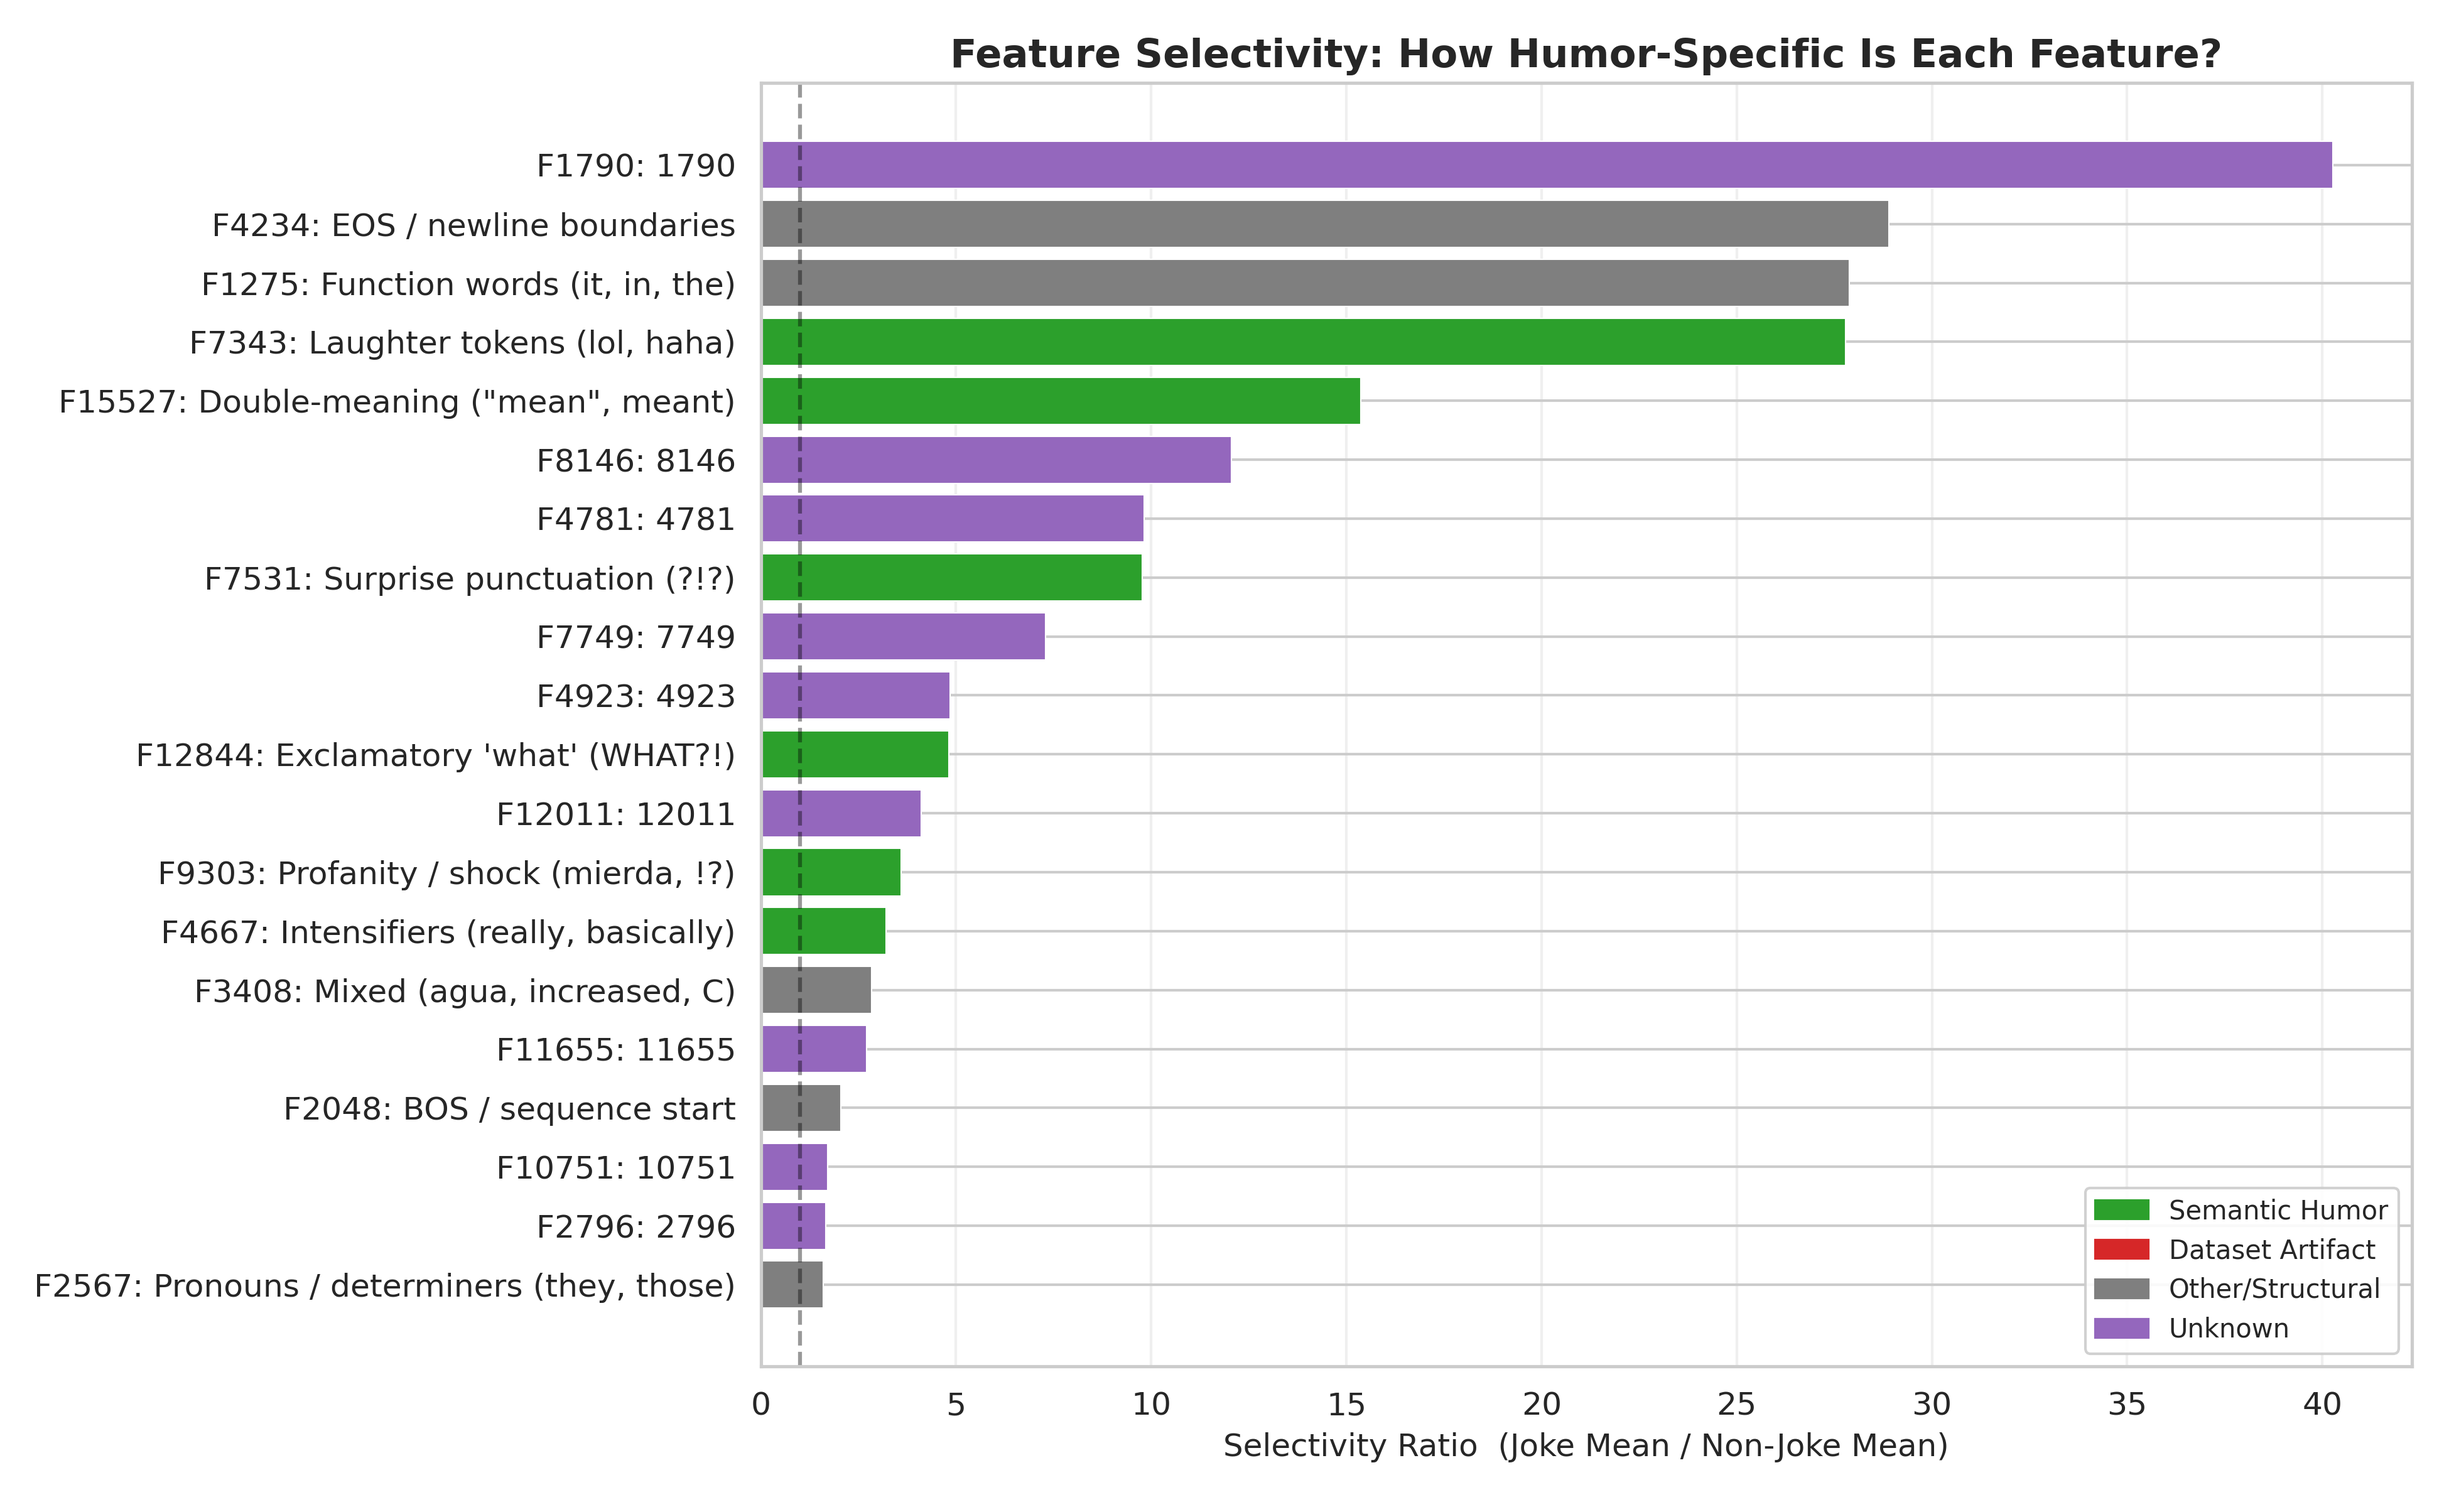
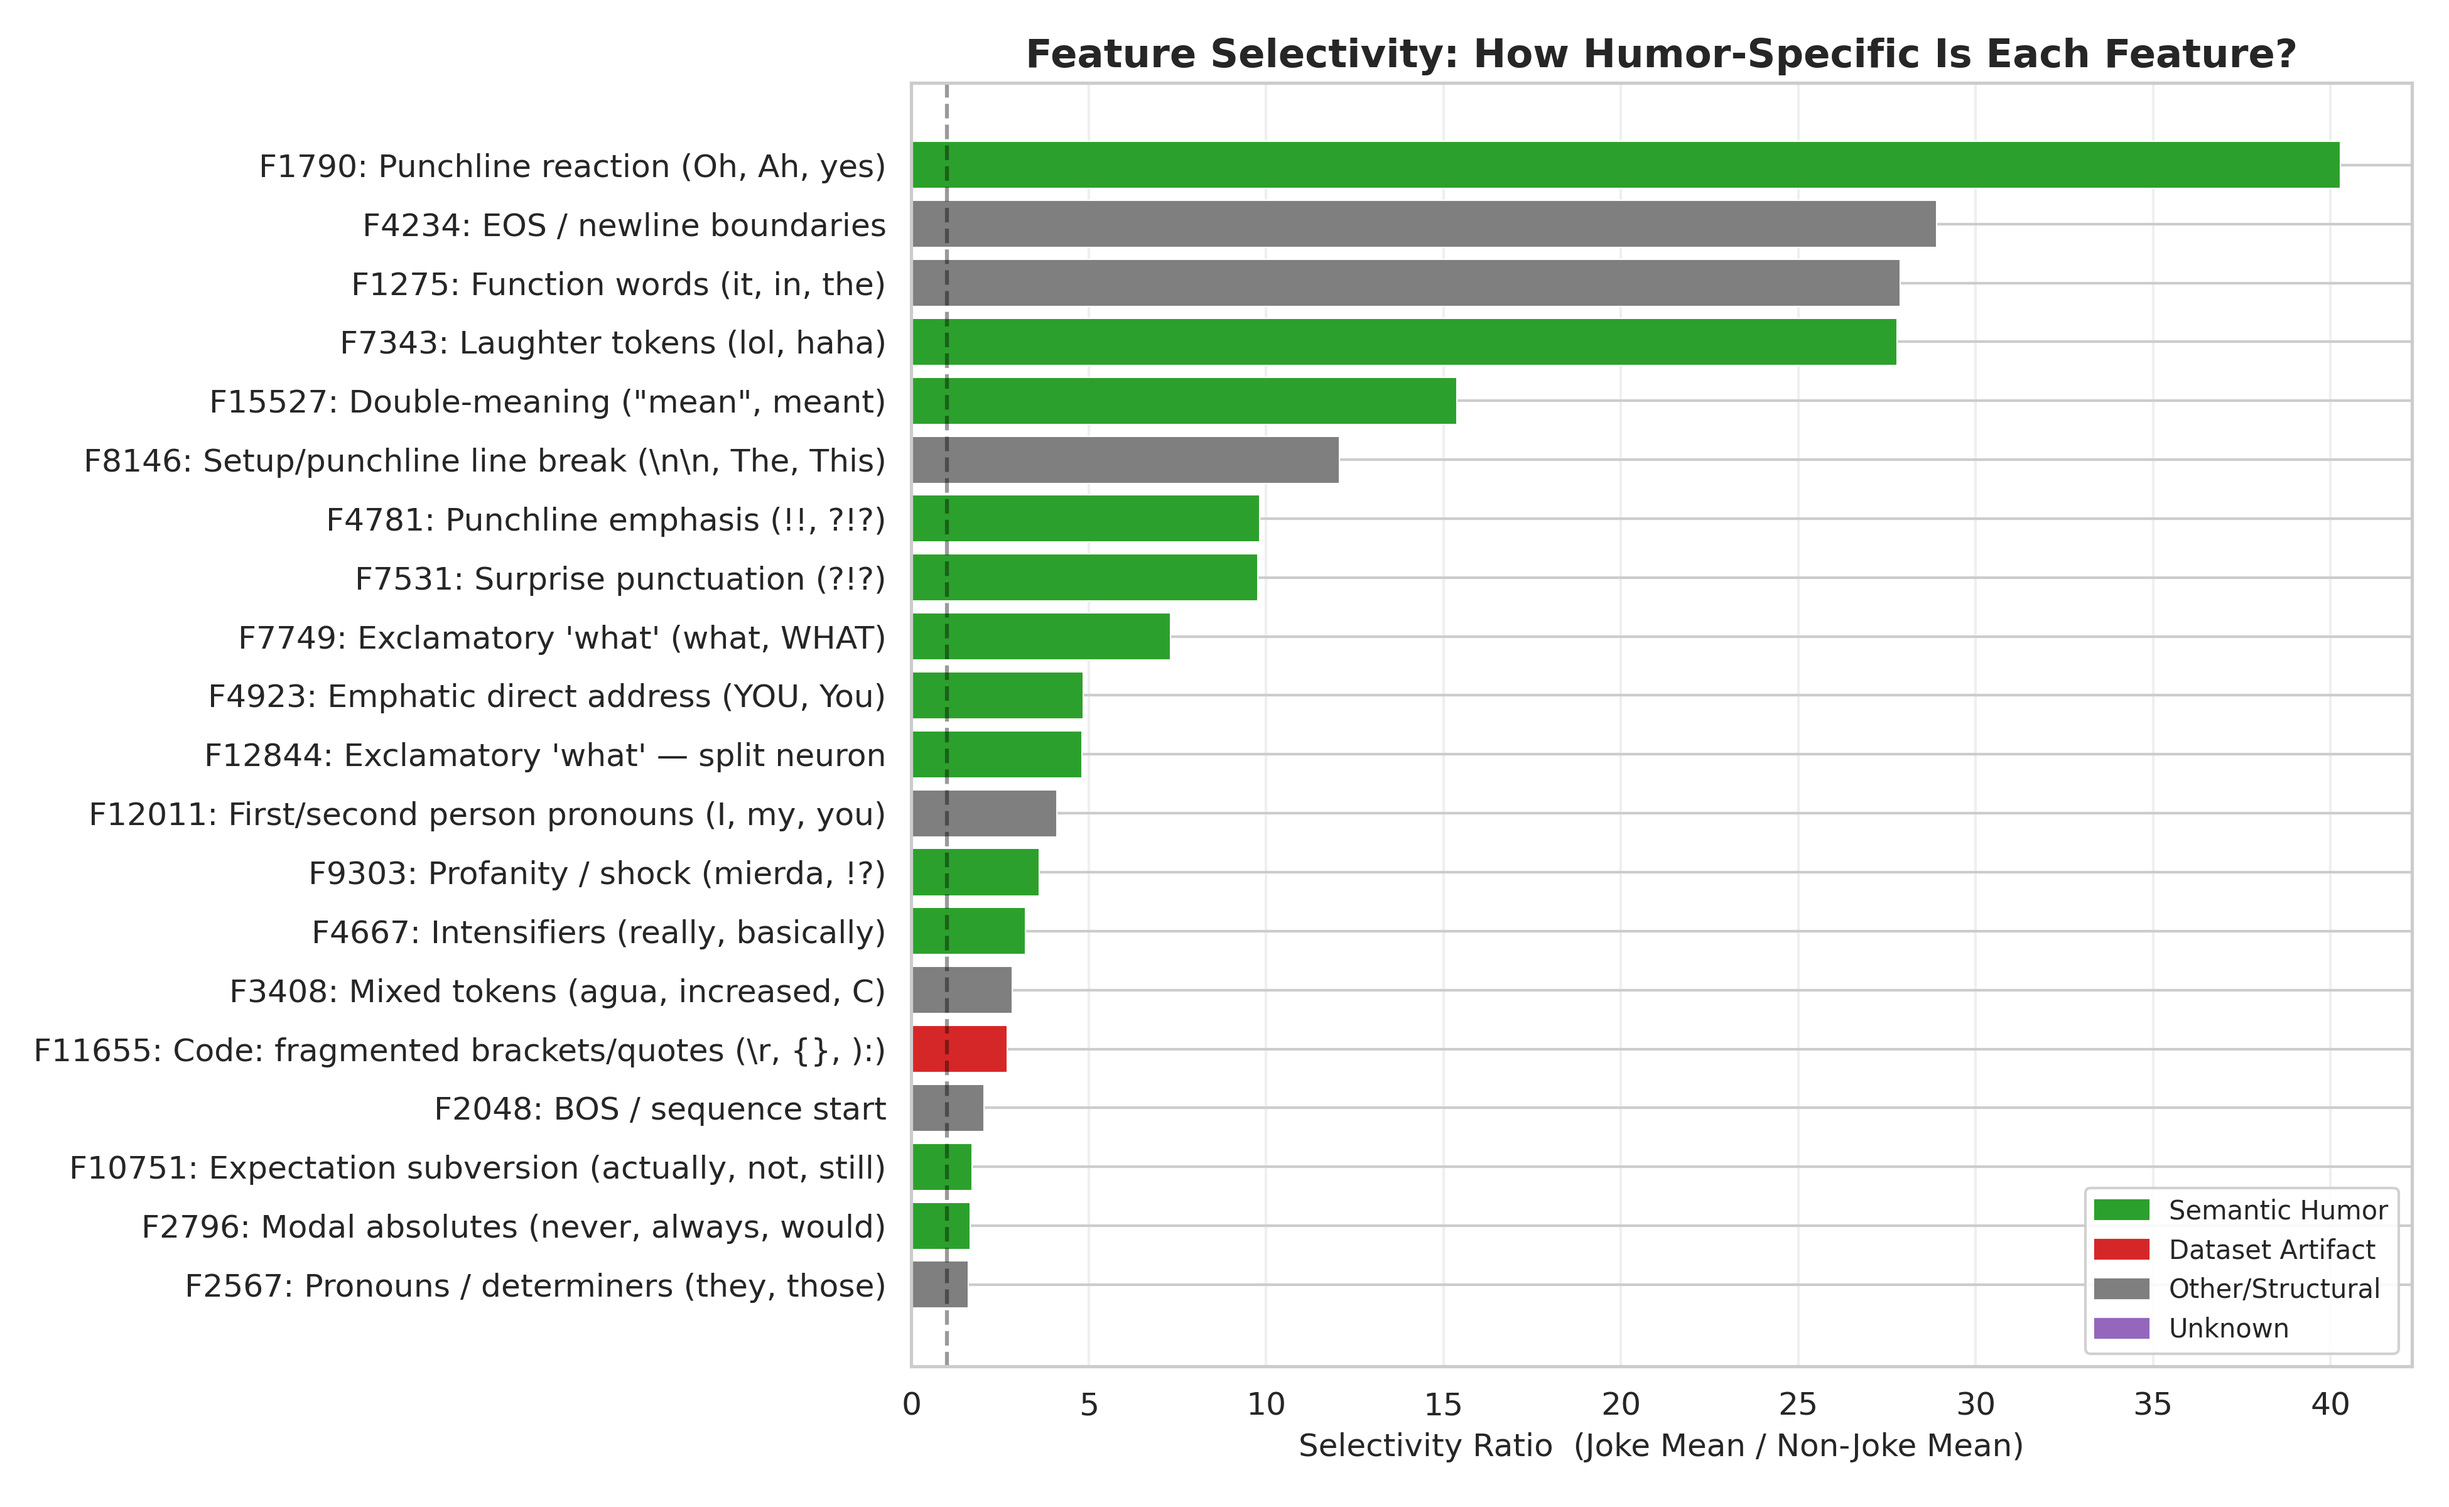
unknown features handling

diff --git a/src/generate_sae_figures.py b/src/generate_sae_figures.py
@@ -39,28 +39,28 @@ FEATURE_CATEGORIES = {
     # ── Semantic Humor ────────────────────────────────────────────────
     7531:  ("Semantic Humor",    "Surprise punctuation (?!?)"),
     7343:  ("Semantic Humor",    "Laughter tokens (lol, haha)"),
-    8665:  ("Semantic Humor",    "Hesitation / delivery (uh, um)"),
-    12844: ("Semantic Humor",    "Exclamatory 'what' (WHAT?!)"),
     9303:  ("Semantic Humor",    "Profanity / shock (mierda, !?)"),
     15527: ("Semantic Humor",    "Double-meaning (\"mean\", meant)"),
-    8064:  ("Semantic Humor",    "Punchline action (get rid, gets)"),
     4667:  ("Semantic Humor",    "Intensifiers (really, basically)"),
-    12443: ("Semantic Humor",    "Question clusters (??, ?\")"),
+    2796:  ("Semantic Humor",    "Modal absolutes (never, always, would)"),
+    1790:  ("Semantic Humor",    "Punchline reaction (Oh, Ah, yes)"),
+    7749:  ("Semantic Humor",    "Exclamatory 'what' (what, WHAT)"),
+    12844: ("Semantic Humor",    "Exclamatory 'what' — split neuron"),
+    4923:  ("Semantic Humor",    "Emphatic direct address (YOU, You)"),
+    4781:  ("Semantic Humor",    "Punchline emphasis (!!, ?!?)"),
+    10751: ("Semantic Humor",    "Expectation subversion (actually, not, still)"),
 
     # ── Dataset Artifact ──────────────────────────────────────────────
-    2748:  ("Dataset Artifact",  "Code: MigrationBuilder"),
-    10663: ("Dataset Artifact",  "Code: principalTable, queryInterface"),
-    4250:  ("Dataset Artifact",  "Arabic script tokens"),
-    14701: ("Dataset Artifact",  "Malay/informal (alot, diatas)"),
-    7224:  ("Dataset Artifact",  "Russian (данного) + informal"),
-    9382:  ("Dataset Artifact",  "Code: ModelExpression, featureID"),
+    11655: ("Dataset Artifact",  "Code: fragmented brackets/quotes (\\r, {}, ):)"),
 
     # ── Other / Structural ────────────────────────────────────────────
-    2048:  ("Other/Structural",  "BOS / sequence start"),
     4234:  ("Other/Structural",  "EOS / newline boundaries"),
-    1275:  ("Other/Structural",  "Function words (it, in, the)"),
+    2048:  ("Other/Structural",  "BOS / sequence start"),
     2567:  ("Other/Structural",  "Pronouns / determiners (they, those)"),
-    3408:  ("Other/Structural",  "Mixed (agua, increased, C)"),
+    3408:  ("Other/Structural",  "Mixed tokens (agua, increased, C)"),
+    8146:  ("Other/Structural",  "Setup/punchline line break (\\n\\n, The, This)"),
+    12011: ("Other/Structural",  "First/second person pronouns (I, my, you)"),
+    1275:  ("Other/Structural",  "Function words (it, in, the)"),
 }
 
 # Color palette
